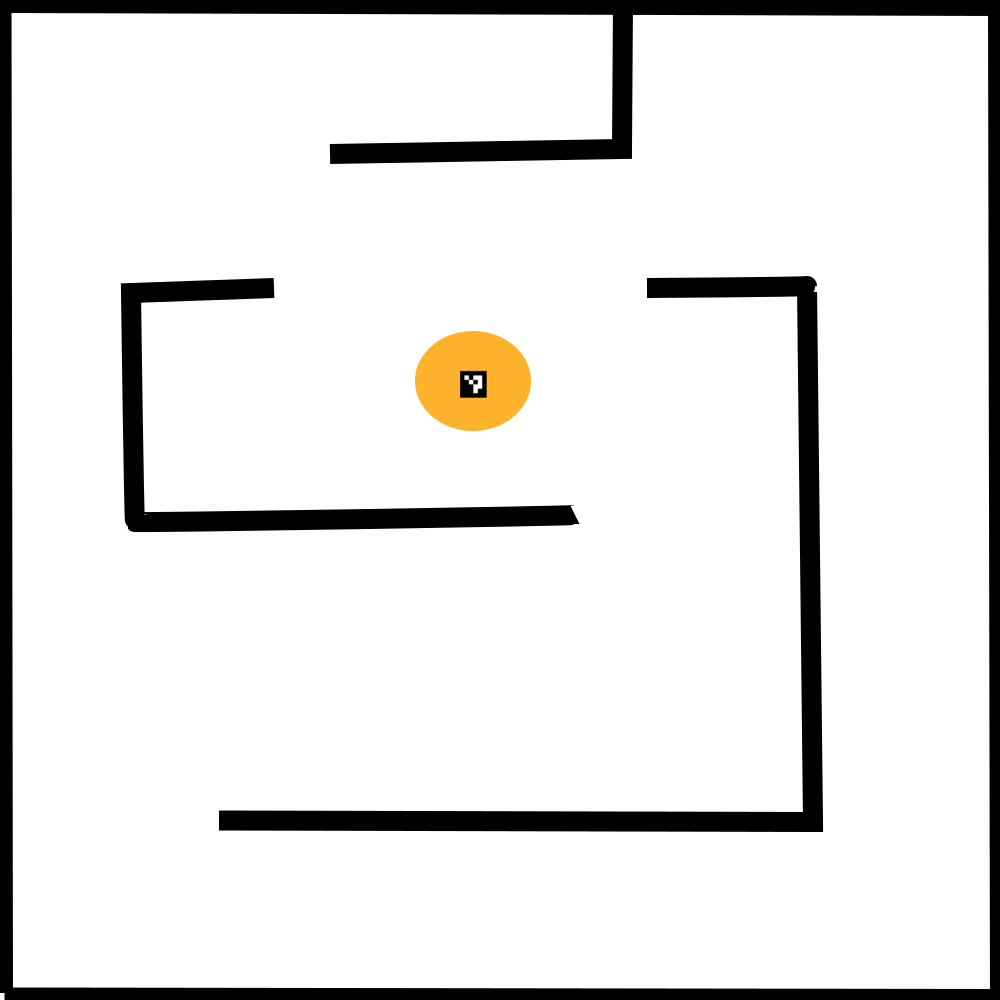
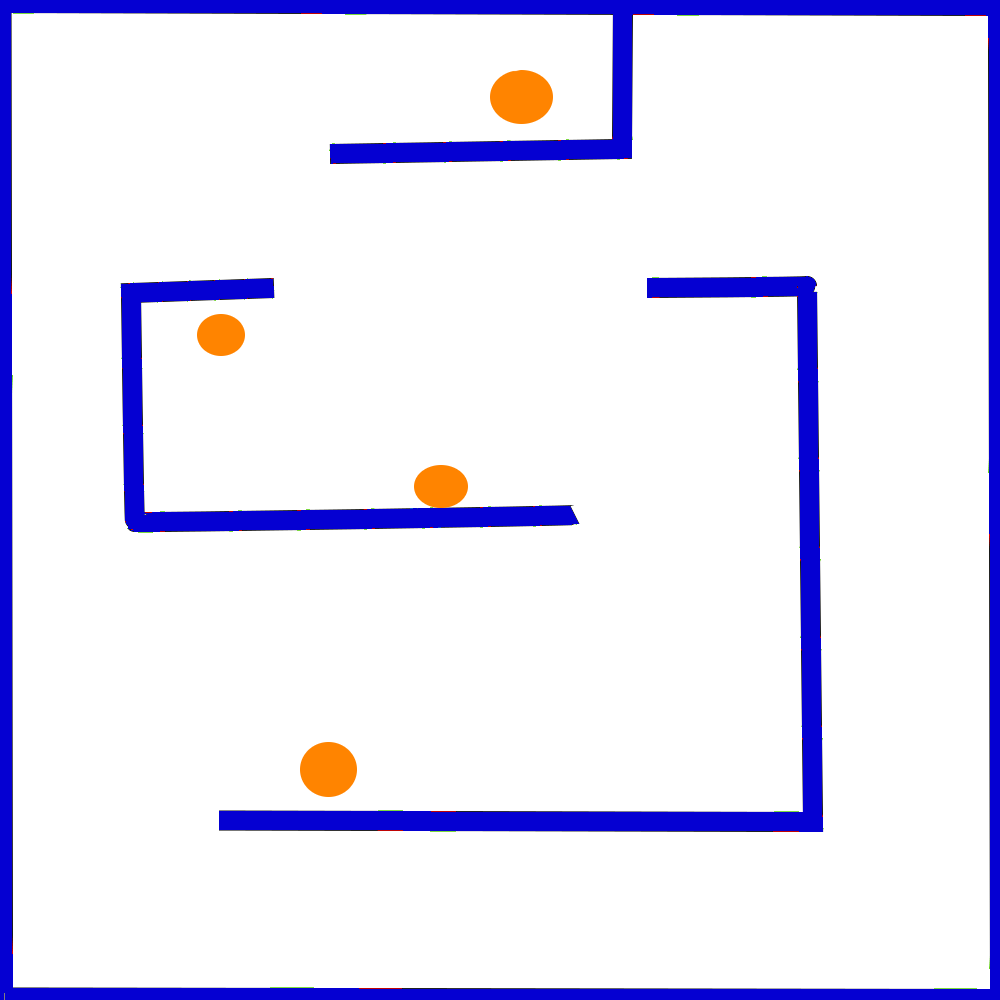
added multiple cheeses to catch game

diff --git a/catch/scripts/map_1_setup.py b/catch/scripts/map_1_setup.py
@@ -11,9 +11,13 @@ rospack    = rospkg.RosPack()
 catch_path = rospack.get_path('catch')
 
 
-filepath   = os.path.join(catch_path, 'maps/cheese.npy')
-cheese     = np.load(filepath)
-cheese_obj = rgt.game_object('cheese_obj', [cheese], np.array([1]))
+
+cheese_contours =[]
+for i in [1,2,3,4]:
+    filepath   = os.path.join(catch_path, 'maps/cheese_'+str(i)+'.npy')
+    cheese     = np.load(filepath)
+    cheese_contours.append(cheese)
+cheese_obj = rgt.game_object('cheese_obj', cheese_contours, np.ones(4))
 
 name      = "cat_obj"
 cat_id    = 1
